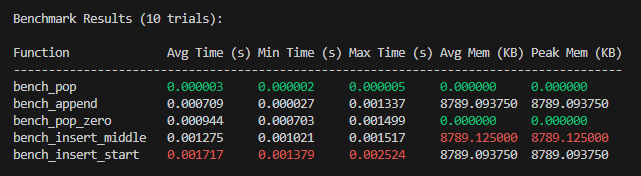
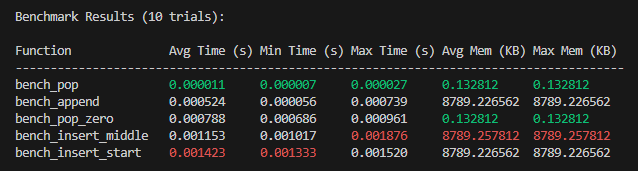
fix: update memory metric terminology from "Peak Mem" to "Max Mem"

diff --git a/tests/test_reporters.py b/tests/test_reporters.py
@@ -47,7 +47,7 @@ TEST_SLOWER_TIME = 0.3
 TEST_AVG_TIME = 0.2
 TEST_MEMORY_VALUE = 1.0
 TEST_AVG_MEMORY = 2.0
-TEST_PEAK_MEMORY = 3.0
+TEST_MAX_MEMORY = 3.0
 TEST_METRIC_MIN = 0.05
 TEST_METRIC_MAX = 0.15
 TEST_FLOAT_VALUE = 0.1
@@ -148,7 +148,7 @@ class TestTableFormatter:
                     "min": TEST_TIME_VALUE,
                     "max": TEST_SLOWER_TIME,
                     "avg_memory": TEST_AVG_MEMORY * 1024,
-                    "max_memory": TEST_PEAK_MEMORY * 1024,
+                    "max_memory": TEST_MAX_MEMORY * 1024,
                 },
             ),
         }
@@ -159,7 +159,7 @@ class TestTableFormatter:
         assert "Benchmark Results (3 trials)" in output
         assert "Function" in output
         assert "Avg Mem (KB)" in output
-        assert "Peak Mem (KB)" in output
+        assert "Max Mem (KB)" in output
         assert "test_func" in output
 
     def test_format_with_return_values(self) -> None:
@@ -385,7 +385,7 @@ class TestCSVFormatter:
                     "min": TEST_TIME_VALUE,
                     "max": TEST_SLOWER_TIME,
                     "avg_memory": TEST_AVG_MEMORY * 1024,
-                    "max_memory": TEST_PEAK_MEMORY * 1024,
+                    "max_memory": TEST_MAX_MEMORY * 1024,
                 },
             ),
         }
@@ -404,12 +404,12 @@ class TestCSVFormatter:
             "Min Time (s)",
             "Max Time (s)",
             "Avg Memory (KB)",
-            "Peak Memory (KB)",
+            "Max Memory (KB)",
         ]
         assert rows[1][0] == "test_func"
         assert float(rows[1][1]) == TEST_AVG_TIME
         assert float(rows[1][4]) == TEST_AVG_MEMORY
-        assert float(rows[1][5]) == TEST_PEAK_MEMORY
+        assert float(rows[1][5]) == TEST_MAX_MEMORY
 
     def test_format_with_memory_unit(self) -> None:
         """Test formatting results with different memory units."""
@@ -478,7 +478,7 @@ class TestJSONFormatter:
                     "min": TEST_TIME_VALUE,
                     "max": TEST_SLOWER_TIME,
                     "avg_memory": TEST_AVG_MEMORY * 1024,
-                    "max_memory": TEST_PEAK_MEMORY * 1024,
+                    "max_memory": TEST_MAX_MEMORY * 1024,
                 },
             ),
         }
@@ -489,7 +489,7 @@ class TestJSONFormatter:
 
         assert data["config"]["memory"] is True
         assert data["results"]["test_func"]["avg_memory"] == TEST_AVG_MEMORY
-        assert data["results"]["test_func"]["max_memory"] == TEST_PEAK_MEMORY
+        assert data["results"]["test_func"]["max_memory"] == TEST_MAX_MEMORY
 
     def test_format_with_output(self) -> None:
         """Test JSON formatting with function outputs."""
@@ -525,7 +525,7 @@ class TestJSONFormatter:
                     "min": TEST_TIME_VALUE,
                     "max": TEST_SLOWER_TIME,
                     "avg_memory": TEST_AVG_MEMORY * 1024 * 1024,
-                    "max_memory": TEST_PEAK_MEMORY * 1024 * 1024,
+                    "max_memory": TEST_MAX_MEMORY * 1024 * 1024,
                 },
             ),
         }
@@ -536,7 +536,7 @@ class TestJSONFormatter:
 
         assert data["config"]["memory_unit"] == "MB"
         assert data["results"]["test_func"]["avg_memory"] == TEST_AVG_MEMORY
-        assert data["results"]["test_func"]["max_memory"] == TEST_PEAK_MEMORY
+        assert data["results"]["test_func"]["max_memory"] == TEST_MAX_MEMORY
 
 
 class TestSimpleFormatter:
@@ -637,7 +637,7 @@ class TestSimpleFormatter:
                 {
                     "avg": TEST_TIME_VALUE,
                     "avg_memory": TEST_AVG_MEMORY * 1024,
-                    "max_memory": TEST_PEAK_MEMORY * 1024,
+                    "max_memory": TEST_MAX_MEMORY * 1024,
                 },
             ),
         }
@@ -836,7 +836,7 @@ class TestDataFrameFormatter:
                     "min": TEST_TIME_VALUE,
                     "max": TEST_SLOWER_TIME,
                     "avg_memory": TEST_AVG_MEMORY * 1024,
-                    "max_memory": TEST_PEAK_MEMORY * 1024,
+                    "max_memory": TEST_MAX_MEMORY * 1024,
                 },
             ),
         }
@@ -845,9 +845,9 @@ class TestDataFrameFormatter:
         output = formatter.format(results, stats, config)
 
         assert "Avg Memory (KB)" in output.columns
-        assert "Peak Memory (KB)" in output.columns
+        assert "Max Memory (KB)" in output.columns
         assert output["Avg Memory (KB)"].iloc[0] == TEST_AVG_MEMORY
-        assert output["Peak Memory (KB)"].iloc[0] == TEST_PEAK_MEMORY
+        assert output["Max Memory (KB)"].iloc[0] == TEST_MAX_MEMORY
 
     @pytest.mark.skipif(
         "pandas" not in pytest.importorskip("pandas").__name__,

diff --git a/src/easybench/reporters.py b/src/easybench/reporters.py
@@ -201,7 +201,7 @@ class TableFormatter(Formatter):
                 f"{'Min Time (s)'} {'Max Time (s)'}"
             )
             if config.memory:
-                header += f" Avg Mem ({self.memory_unit}) Peak Mem ({self.memory_unit})"
+                header += f" Avg Mem ({self.memory_unit}) Max Mem ({self.memory_unit})"
         return header
 
     def _calculate_dash_length(self, config: BenchConfig) -> int:
@@ -378,7 +378,7 @@ class CSVFormatter(Formatter):
                 header.extend(
                     [
                         f"Avg Memory ({self.memory_unit})",
-                        f"Peak Memory ({self.memory_unit})",
+                        f"Max Memory ({self.memory_unit})",
                     ],
                 )
 
@@ -497,7 +497,7 @@ class DataFrameFormatter(Formatter):
                             f"Avg Memory ({self.memory_unit})": (
                                 self.convert_memory_unit(stat["avg_memory"])
                             ),
-                            f"Peak Memory ({self.memory_unit})": (
+                            f"Max Memory ({self.memory_unit})": (
                                 self.convert_memory_unit(stat["max_memory"])
                             ),
                         },

diff --git a/tests/test_easybench_class.py b/tests/test_easybench_class.py
@@ -136,7 +136,7 @@ class TestEasyBenchOutput:
         parsed_out = parse_benchmark_output(captured.out)
         assert parsed_out["has_memory_metrics"]
         assert "Avg Mem" in captured.out
-        assert "Peak Mem" in captured.out
+        assert "Max Mem" in captured.out
 
     def test_return_values_display(self, capsys: pytest.CaptureFixture[str]) -> None:
         """Test that function return values are displayed when show_output=True."""
@@ -1387,7 +1387,7 @@ class TestParametrizedDecorator:
         assert "bench_allocate (Small)" in captured.out
         assert "bench_allocate (Large)" in captured.out
         assert "Avg Mem" in captured.out
-        assert "Peak Mem" in captured.out
+        assert "Max Mem" in captured.out
 
     def test_parametrize_with_generator_fixture(
         self,

diff --git a/tests/test_decorator.py b/tests/test_decorator.py
@@ -298,7 +298,7 @@ class TestBenchDecoratorOutput:
         assert "Min Time" in captured.out
         assert "Max Time" in captured.out
         assert "Avg Mem" in captured.out
-        assert "Peak Mem" in captured.out
+        assert "Max Mem" in captured.out
 
     def test_bench_decorator_display_config_no_memory(
         self,
@@ -317,7 +317,7 @@ class TestBenchDecoratorOutput:
         assert "Min Time" in captured.out
         assert "Max Time" in captured.out
         assert "Avg Mem" not in captured.out
-        assert "Peak Mem" not in captured.out
+        assert "Max Mem" not in captured.out
 
     def test_bench_decorator_bench_method(self, capsys: pytest.CaptureFixture) -> None:
         """Test direct invocation of the bench method on a decorated function."""
